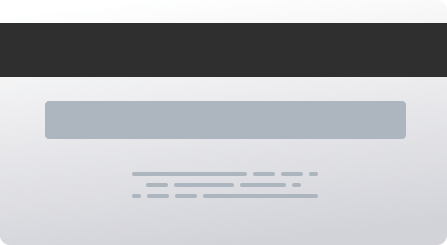
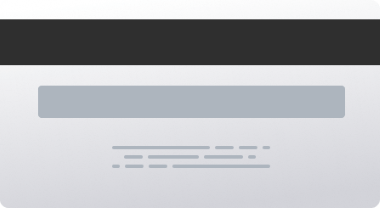
:lipstick: feat: Estilizaçao CSS dos Cards

Changed region(s): [[0.0, 0.2885, 1.0, 0.3173], [0.0, 0.0865, 1.0, 0.1154]]

diff --git a/css/style_main.css b/css/style_main.css
@@ -1,30 +1,88 @@
 main {
   width: 100%;
-  height: 540px;
+  height: 470px;
   display: flex;
   flex-wrap: wrap;
-  flex-direction: row;
+  flex-direction: column;
 }
 .card {
-  width: 50%;
+  width: 40%;
+  height: 470px;
   display: flex;
   flex-wrap: wrap;
   flex-direction: row;
-  padding-left: 9em;
+  padding-left: 13em;
+  padding-right: 0.1em;
 }
 .card-front {
   width: 100%;
+  height: 45%;
   background-image: url("../images/bg-card-front.png");
   background-repeat: no-repeat;
-  padding: 0.3em;
 }
 .card-logo {
   padding: 1.2em;
 }
 .card-back {
   width: 100%;
+  height: 45%;
   padding-left: 3em;
   background-image: url("../images/bg-card-back.png");
   background-repeat: no-repeat;
-  margin-left: 5em;
+  margin-left: 6.5em;
+}
+.dados {
+  width: 40%;
+  display: flex;
+  flex-wrap: wrap;
+  flex-direction: row;
+  padding-top: 1em;
+}
+.label-name,
+.label-number {
+  width: 100%;
+  color: rgb(94, 91, 91);
+  font-size: 14px;
+  padding: 0.7em;
+}
+.input-name,
+.input-number {
+  width: 60%;
+  border-radius: 7px;
+  border-color: rgb(250, 248, 248);
+
+  padding: 10px;
+  margin-right: 40%;
+}
+.label-date {
+  width: 40%;
+  color: rgb(94, 91, 91);
+  font-size: 14px;
+  padding: 0.7em;
+}
+.label-cvc {
+  width: 30%;
+  color: rgb(94, 91, 91);
+  font-size: 14px;
+  padding: 0.7em;
+}
+.input-date {
+  width: 30%;
+  padding: 10px;
+  margin-right: 1em;
+  border-radius: 7px;
+}
+.input-cvc {
+  width: 20%;
+  padding: 10px;
+  border-radius: 7px;
+}
+button {
+  width: 50%;
+  background-color: black;
+  color: white;
+  margin: 3em;
+  padding: 10px;
+  border-radius: 7px;
+  align-items: center;
 }

diff --git a/index.html b/index.html
@@ -4,7 +4,12 @@
     <meta charset="UTF-8" />
     <meta name="viewport" content="width=device-width, initial-scale=1.0" />
     <!-- displays site properly based on user's device -->
-
+    <link rel="preconnect" href="https://fonts.googleapis.com" />
+    <link rel="preconnect" href="https://fonts.gstatic.com" crossorigin />
+    <link
+      href="https://fonts.googleapis.com/css2?family=Fira+Sans:ital,wght@0,400;0,500;0,600;0,700;1,100;1,400;1,900&family=Space+Grotesk:wght@500&family=Space+Mono:ital,wght@0,700;1,700&display=swap"
+      rel="stylesheet"
+    />
     <link
       rel="icon"
       type="image/png"
@@ -25,7 +30,17 @@
         </div>
         <div class="card-back"></div>
       </div>
-      <div class="dados"></div>
+      <div class="dados">
+        <label for="name" class="label-name">CARDHOLDER NAME</label>
+        <input type="text" class="input-name" />
+        <label for="number" class="label-number"> CARD NUMBER</label>
+        <input type="number" class="input-number" />
+        <label for="date-exp" class="label-date">EXP.DATE (MM/YY)</label>
+        <label for="cvc" class="label-cvc">CVC</label>
+        <input type="date" class="input-date" />
+        <input type="number" class="input-cvc" />
+        <button type="submit">Confirm</button>
+      </div>
     </main>
     <footer>
       <div class="attribution">

diff --git a/css/style_header.css b/css/style_header.css
@@ -1,8 +1,11 @@
 body {
   background-image: url("../images/bg-main-desktop.png");
   background-repeat: no-repeat;
+  font-family: "Fira Sans", sans-serif;
+  font-family: "Space Grotesk", sans-serif;
+  font-family: "Space Mono", monospace;
 }
 header {
   width: 100%;
-  height: 60px;
+  height: 100px;
 }

diff --git a/css/style_footer.css b/css/style_footer.css
@@ -1,4 +1,4 @@
 footer {
   width: 100%;
-  height: 20px;
+  height: 50px;
 }
